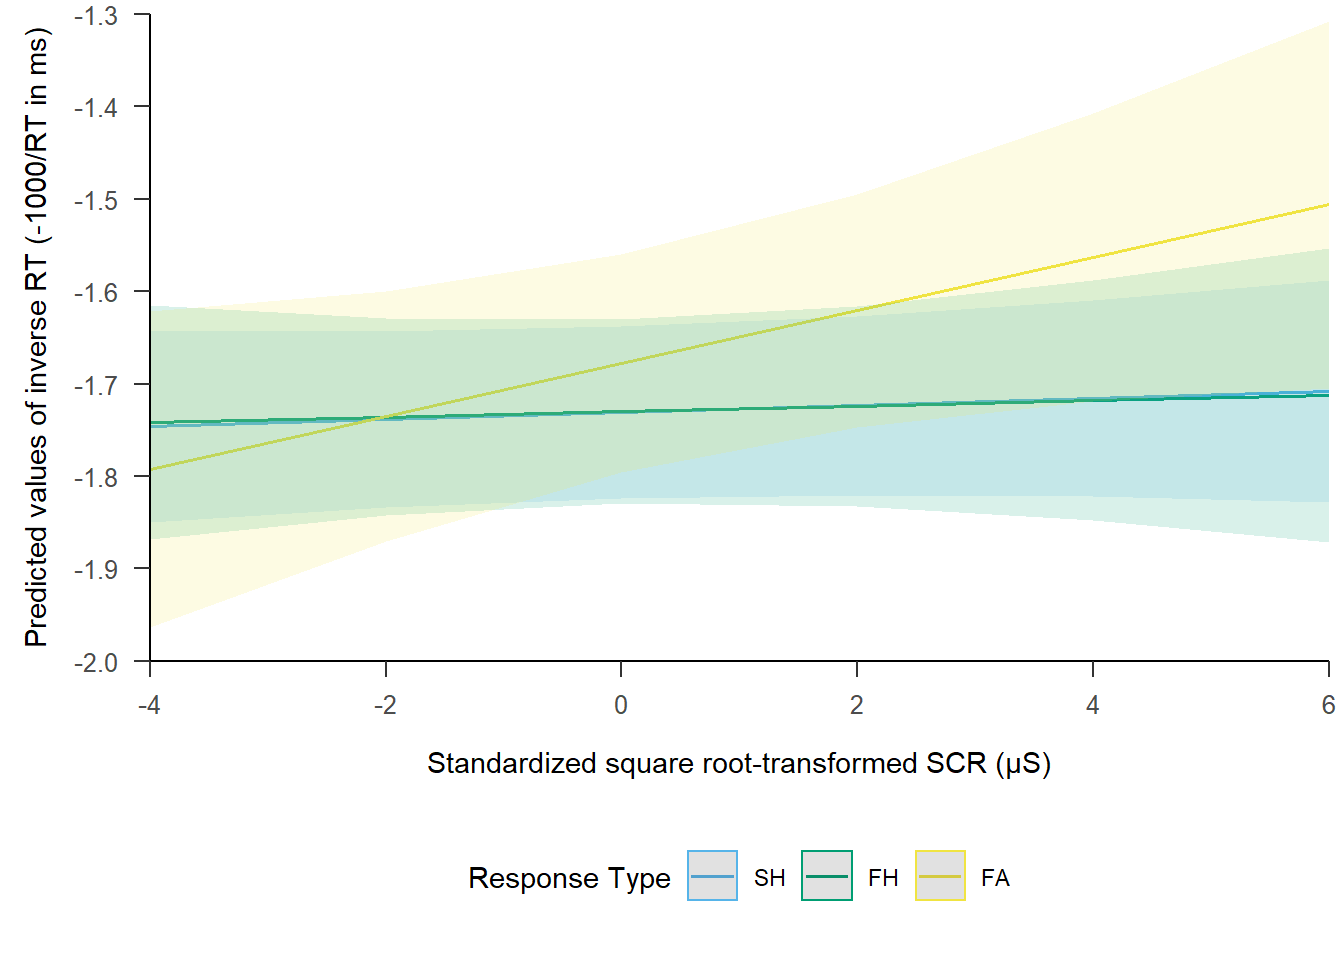
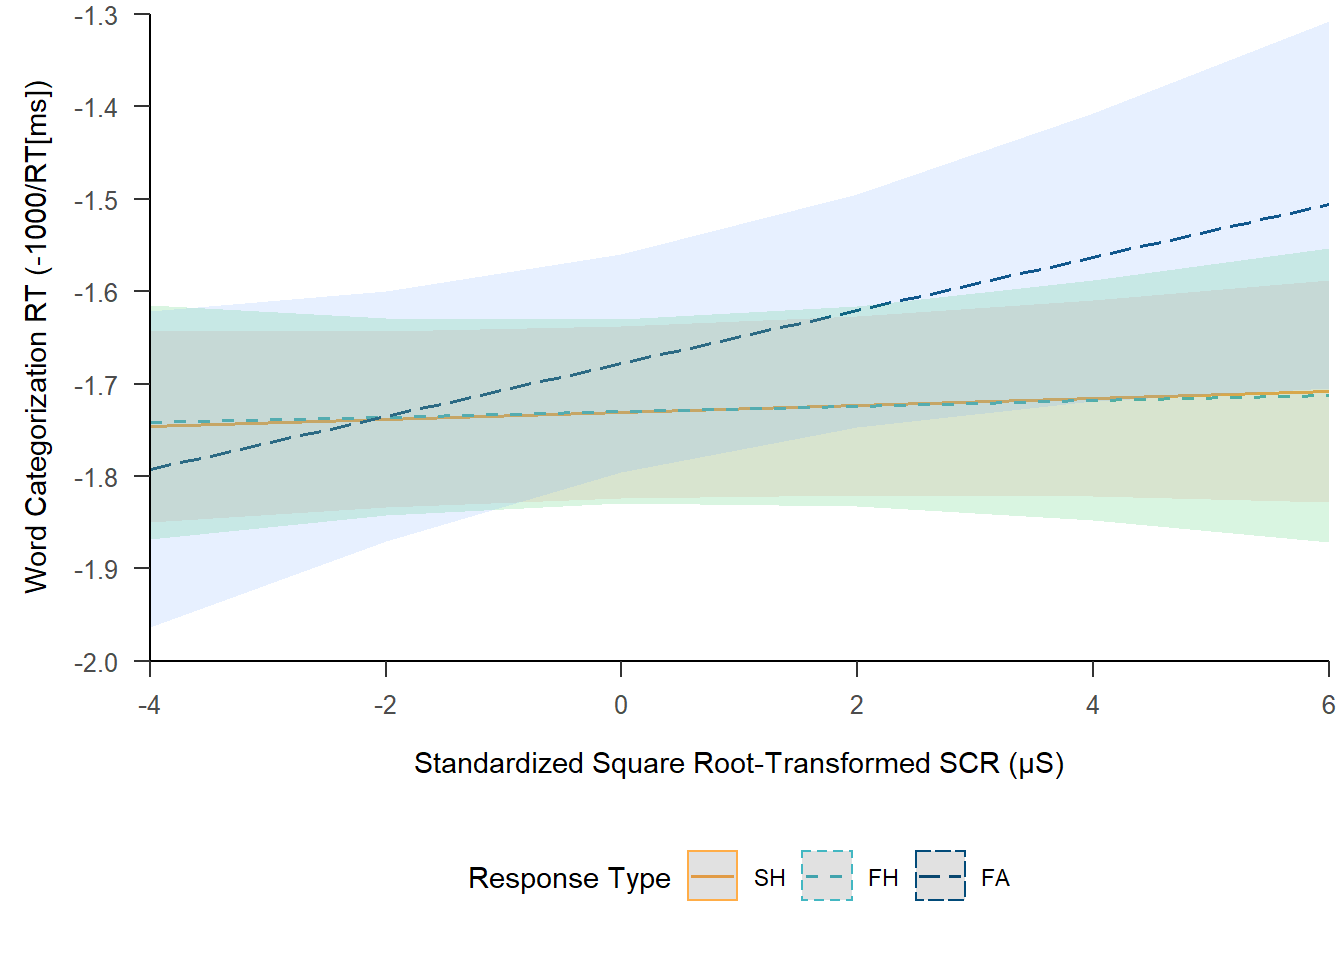
Make figure 4 prettier and correct CI calculation

diff --git a/3_SCR.html b/3_SCR.html
@@ -356,7 +356,7 @@ div.tocify {
     <div id="navbar" class="navbar-collapse collapse">
       <ul class="nav navbar-nav">
         <li>
-  <a href="index.html">
+  <a href="0_Task_and_Data_Description.html">
     <span class="glyphicon glyphicon-info-sign"></span>
      
     Task &amp; Data
@@ -487,12 +487,13 @@ descriptive_statistics_scr_z &lt;- summarySEwithinO(
   idvar         = &quot;participant_id&quot;,
   conf.interval = .95
 ) %&gt;%
-  # Round numeric values to two decimals
-  dplyr::mutate_if(is.numeric, round, digits = 2) %&gt;%
   # Format confidence interval column
   dplyr::mutate(
-    ci_scr = paste0(&quot;[&quot;, iscr_gng_resp_z - ci, &quot;, &quot;, iscr_gng_resp_z + ci, &quot;]&quot;)
+    ci_scr = paste0(&quot;[&quot;, round(iscr_gng_resp_z - ci, digits = 2), 
+                    &quot;, &quot;, round(iscr_gng_resp_z + ci, digits = 2), &quot;]&quot;)
   ) %&gt;%
+  # Round numeric values to two decimals
+  dplyr::mutate_if(is.numeric, round, digits = 2) %&gt;%  
   # Select columns to be displayed
   dplyr::select(c(&quot;gng_response_type&quot;, &quot;iscr_gng_resp_z&quot;, &quot;ci_scr&quot;, &quot;ci&quot;))
 
@@ -529,7 +530,7 @@ SH
 -0.06
 </td>
 <td style="text-align:left;">
-[-0.1, -0.02]
+[-0.1, -0.03]
 </td>
 </tr>
 <tr>
@@ -540,7 +541,7 @@ FH
 -0.02
 </td>
 <td style="text-align:left;">
-[-0.06, 0.02]
+[-0.06, 0.03]
 </td>
 </tr>
 <tr>
@@ -551,7 +552,7 @@ FA
 0.31
 </td>
 <td style="text-align:left;">
-[0.22, 0.4]
+[0.21, 0.4]
 </td>
 </tr>
 </tbody>
@@ -584,7 +585,7 @@ plot_scr &lt;- ggplot(descriptive_statistics_scr_z,
   scale_y_continuous(breaks = seq(-0.2, 0.5, 0.1), limits = c(-0.2,0.5), expand = c(0,0)) +
   geom_hline(yintercept = 0, size = 0.25) +
   geom_signif(
-    y_position = c(0.48,0.43), xmin = c(1,2), xmax = c(3,3),
+    y_position = c(0.47,0.43), xmin = c(1,2), xmax = c(3,3),
     annotation = c(&quot;***&quot;,&quot;**&quot;), tip_length = 0.01, vjust = 0.5, textsize = 4, size = 0.3
   )
 
@@ -1295,16 +1296,11 @@ control = lmerControl(optimizer = &quot;bobyqa&quot;)
 )
 
 
-# Display results (fixed effects) - but only show follow-up for interactions that were significant
+# Display results (fixed effects)
 tab_model(LMM_scr_priming_nested,
   dv.labels = &quot;RT&quot;, pred.labels = labels, show.stat = TRUE, show.icc = FALSE, show.r2 = FALSE, 
   show.re.var = FALSE, show.ngroups = FALSE, string.est = &quot;b&quot;, string.stat = &quot;t value&quot;, 
-  string.ci = &quot;95 % CI&quot;, string.p = &quot;p value&quot;,  p.val = &quot;satterthwaite&quot;, 
-  rm.terms = c(
-    &quot;gng_response_typeSH:word_valence2-1:iscr_gng_resp_sqrt_z&quot;,
-    &quot;gng_response_typeFH:word_valence2-1:iscr_gng_resp_sqrt_z&quot;,
-    &quot;gng_response_typeFA:word_valence2-1:iscr_gng_resp_sqrt_z&quot;
-  )
+  string.ci = &quot;95 % CI&quot;, string.p = &quot;p value&quot;,  p.val = &quot;satterthwaite&quot;
 )</code></pre>
 <table style="border-collapse:collapse; border:none;">
 <tr>
@@ -1486,6 +1482,57 @@ FA: SCR
 </td>
 </tr>
 <tr>
+<td style=" padding:0.2cm; text-align:left; vertical-align:top; text-align:left; ">
+SH: Pos - Neg x SCR
+</td>
+<td style=" padding:0.2cm; text-align:left; vertical-align:top; text-align:center;  ">
+0.00
+</td>
+<td style=" padding:0.2cm; text-align:left; vertical-align:top; text-align:center;  ">
+-0.02 – 0.02
+</td>
+<td style=" padding:0.2cm; text-align:left; vertical-align:top; text-align:center;  ">
+0.33
+</td>
+<td style=" padding:0.2cm; text-align:left; vertical-align:top; text-align:center;  ">
+0.739
+</td>
+</tr>
+<tr>
+<td style=" padding:0.2cm; text-align:left; vertical-align:top; text-align:left; ">
+FH: Pos - Neg x SCR
+</td>
+<td style=" padding:0.2cm; text-align:left; vertical-align:top; text-align:center;  ">
+-0.01
+</td>
+<td style=" padding:0.2cm; text-align:left; vertical-align:top; text-align:center;  ">
+-0.04 – 0.01
+</td>
+<td style=" padding:0.2cm; text-align:left; vertical-align:top; text-align:center;  ">
+-0.97
+</td>
+<td style=" padding:0.2cm; text-align:left; vertical-align:top; text-align:center;  ">
+0.331
+</td>
+</tr>
+<tr>
+<td style=" padding:0.2cm; text-align:left; vertical-align:top; text-align:left; ">
+FA: Pos - Neg x SCR
+</td>
+<td style=" padding:0.2cm; text-align:left; vertical-align:top; text-align:center;  ">
+0.01
+</td>
+<td style=" padding:0.2cm; text-align:left; vertical-align:top; text-align:center;  ">
+-0.03 – 0.05
+</td>
+<td style=" padding:0.2cm; text-align:left; vertical-align:top; text-align:center;  ">
+0.42
+</td>
+<td style=" padding:0.2cm; text-align:left; vertical-align:top; text-align:center;  ">
+0.673
+</td>
+</tr>
+<tr>
 <td style=" padding:0.2cm; text-align:left; vertical-align:top; text-align:left; padding-top:0.1cm; padding-bottom:0.1cm; border-top:1px solid;">
 Observations
 </td>
@@ -1498,7 +1545,7 @@ Observations
 </div>
 <div id="plot-pes---scr-effect" class="section level4">
 <h4>Plot PES - SCR effect</h4>
-<p>The plot shows the predicted values (marginal effects) for the response type x SCR interation of the LMM.</p>
+<p>This figure corresponds to Figure 4 in the manuscript. The plot shows the predicted values (marginal effects) for the response type x SCR interation of the LMM.</p>
 <pre class="r"><code># Respecify LMM without interactions stated with &quot;:&quot; in random structure (because plot_model does not like that) 
 # Also enter fixed effects as factors, not contrasts (to have all factor levels in the plot)
 # Double bar syntax for zero-correlation parameter model won&#39;t work anymore (full model still converges, no singular fit)
@@ -1513,24 +1560,26 @@ control = lmerControl(optimizer = &quot;bobyqa&quot;)
 
 # Plot marginal effects
 plot_model(LMM_scr_priming_plot, 
-           type         = &quot;pred&quot;, 
-           terms        = c(&quot;iscr_gng_resp_sqrt_z&quot;, &quot;gng_response_type&quot;), 
-           legend.title = &quot;Response Type&quot;, 
-           colors       = c(&quot;#56B4E9&quot;, &quot;#009E73&quot;, &quot;#F0E442&quot;)) +
+           type   = &quot;pred&quot;, 
+           terms  = c(&quot;iscr_gng_resp_sqrt_z&quot;, &quot;gng_response_type&quot;), 
+           ci.lvl = .95) +
   labs(title = NULL, 
-       x     = &quot;Standardized square root-transformed SCR (µS)&quot;, 
-       y     = &quot;Predicted values of inverse RT (-1000/RT in ms)&quot;) +
+       x     = &quot;Standardized Square Root-Transformed SCR (µS)&quot;, 
+       y     = &quot;Word Categorization RT (−1000/RT[ms])&quot;) +
   my_figure_theme +
+  aes(linetype = group, color = group) + 
+  scale_linetype_manual(name = &quot;Response Type&quot;, values = c(&quot;solid&quot;,   &quot;dashed&quot;,  &quot;longdash&quot;)) +
+  scale_color_manual(name =    &quot;Response Type&quot;, values = c(&quot;#ffad48&quot;, &quot;#43b7c2&quot;, &quot;#024b79&quot;)) +
   theme(axis.ticks.x = NULL) + 
   scale_y_continuous(breaks=seq(-2, -1.3, 0.1), limits = c(-2, -1.3), expand = c(0,0)) +
   scale_x_continuous(breaks=seq(-4, 6, 2),      limits = c(-4, 6),    expand = c(0,0))</code></pre>
 <div class="figure">
-<img src="3_SCR_files/figure-html/plot-pes-scr-original-1.png" alt="Note. Error bars indicate 95% confidence intervals." width="672" />
+<img src="3_SCR_files/figure-html/plot-pes-scr-original-1.png" alt="Note. Estimated interaction effects of SCR and response type in the go/no-go task on word categorization RT. RT values are displayed on an inverse scale, standardized SCR values on a square root scale. The slope is significant only for false alarms, indicating that following incorrect responses, an enhanced SCR is associated with slower responses to words and hence more post-error slowing. Shaded areas represent 95% confidence intervals." width="672" />
 <p class="caption">
-Note. Error bars indicate 95% confidence intervals.
+Note. Estimated interaction effects of SCR and response type in the go/no-go task on word categorization RT. RT values are displayed on an inverse scale, standardized SCR values on a square root scale. The slope is significant only for false alarms, indicating that following incorrect responses, an enhanced SCR is associated with slower responses to words and hence more post-error slowing. Shaded areas represent 95% confidence intervals.
 </p>
 </div>
-<pre class="r"><code># ggsave(&quot;figure_scr_pes.tiff&quot;,width = 11, height = 13 , units = &quot;cm&quot;, dpi=600, compression = &quot;lzw&quot;)</code></pre>
+<pre class="r"><code># ggsave(&quot;figure_scr_pes.tiff&quot;,width = 11, height = 13 , units = &quot;cm&quot;, dpi = 600, compression = &quot;lzw&quot;)</code></pre>
 <p><br><br><br></p>
 </div>
 </div>
@@ -1994,7 +2043,7 @@ Observations
 <pre class="r"><code>sessionInfo()</code></pre>
 <pre><code>R version 3.6.1 (2019-07-05)
 Platform: x86_64-w64-mingw32/x64 (64-bit)
-Running under: Windows 10 x64 (build 18362)
+Running under: Windows 10 x64 (build 18363)
 
 Matrix products: default
 
@@ -2031,11 +2080,11 @@ loaded via a namespace (and not attached):
 [49] scales_1.1.0        estimability_1.3    stringi_1.4.3      
 [52] farver_2.0.1        renv_0.12.0         xml2_1.2.2         
 [55] ellipsis_0.3.0      vctrs_0.3.4         generics_0.0.2     
-[58] boot_1.3-22         sjlabelled_1.1.3    tools_3.6.1        
-[61] forcats_0.4.0       glue_1.3.1          purrr_0.3.3        
-[64] sjstats_0.17.8      hms_0.5.2           emmeans_1.4.2      
-[67] yaml_2.2.0          colorspace_1.4-1    rvest_0.3.6        
-[70] haven_2.2.0        </code></pre>
+[58] boot_1.3-22         sjlabelled_1.1.3    RColorBrewer_1.1-2 
+[61] tools_3.6.1         forcats_0.4.0       glue_1.3.1         
+[64] purrr_0.3.3         sjstats_0.17.8      hms_0.5.2          
+[67] emmeans_1.4.2       yaml_2.2.0          colorspace_1.4-1   
+[70] rvest_0.3.6         haven_2.2.0        </code></pre>
 </div>
 
 
